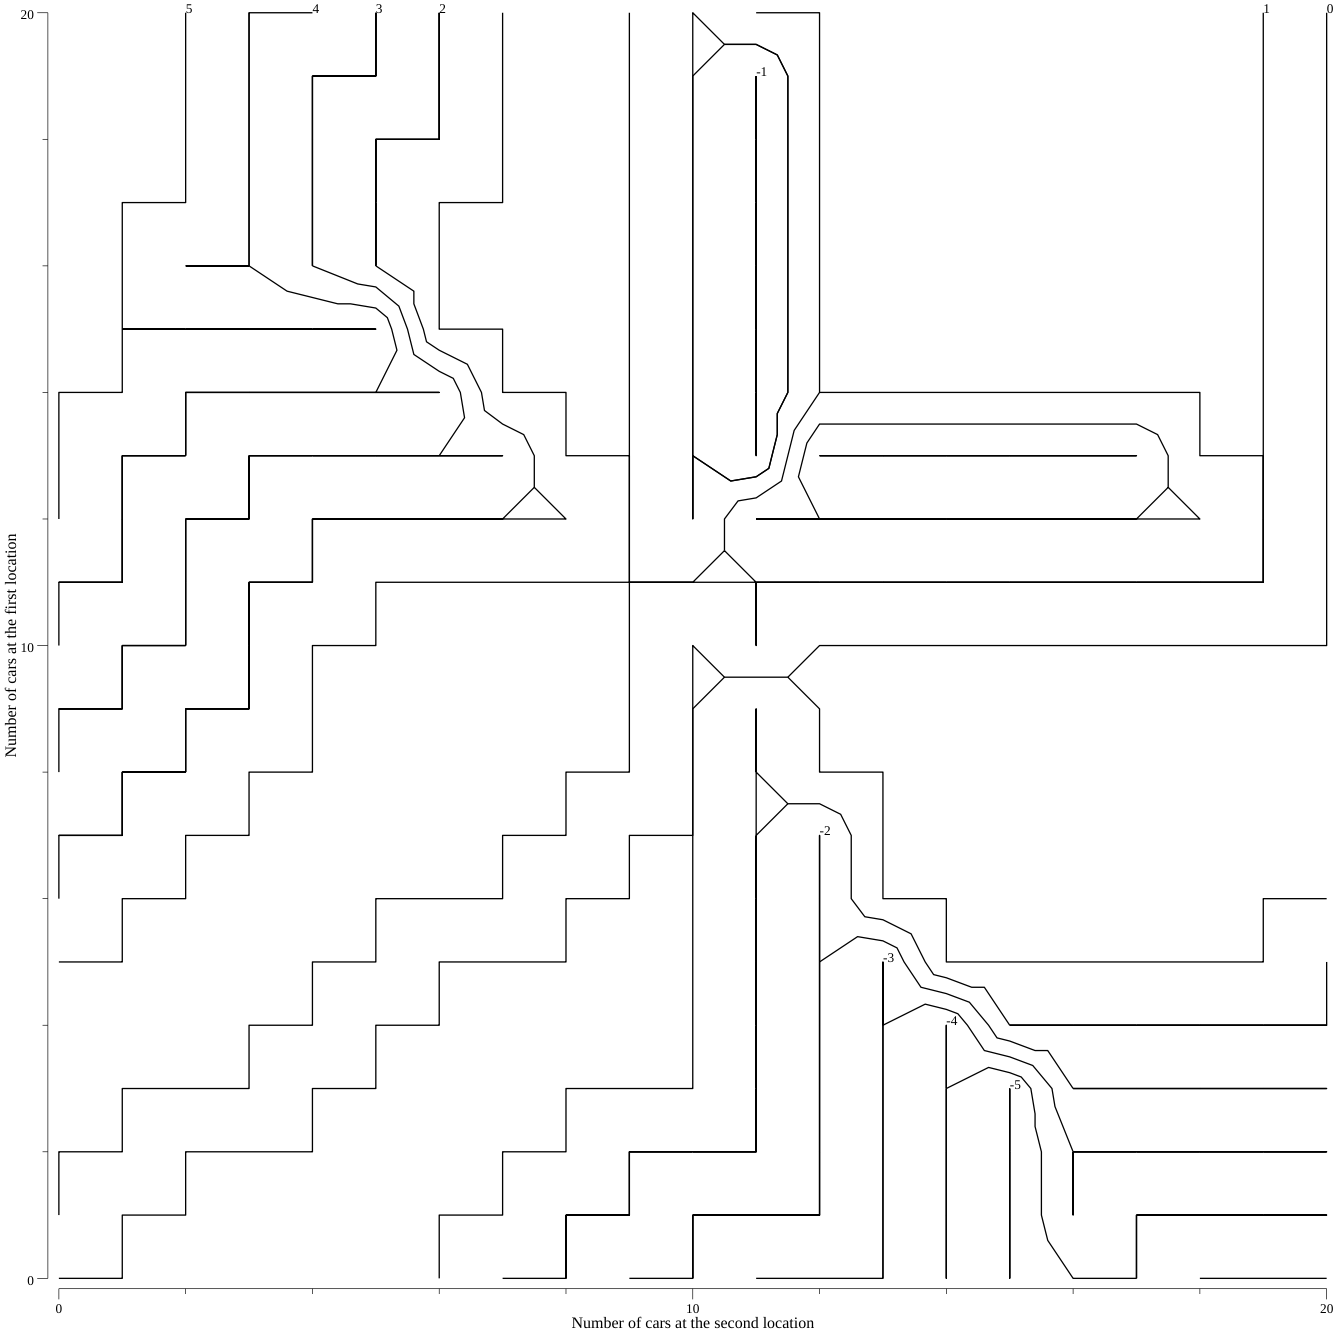
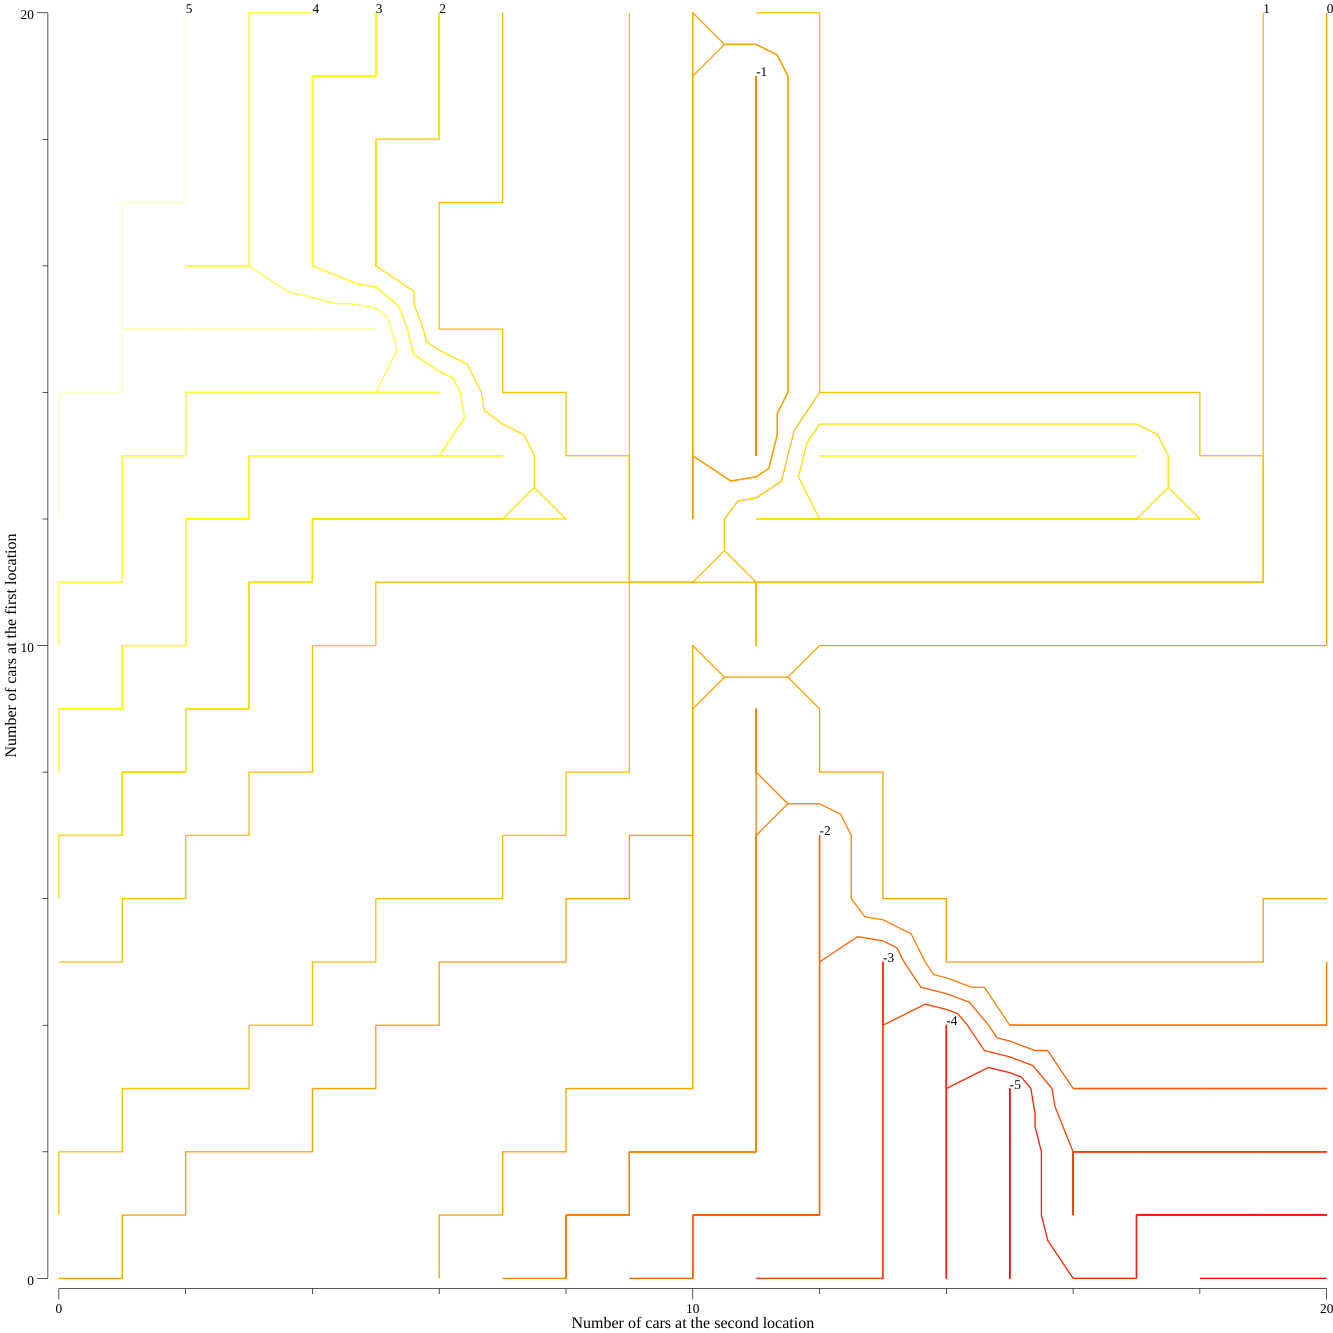
Add color to contourmap.

diff --git a/4.7/main.go b/4.7/main.go
@@ -4,6 +4,7 @@ import (
 	"fmt"
 	"gonum.org/v1/gonum/stat/distuv"
 	"gonum.org/v1/plot"
+	"gonum.org/v1/plot/palette"
 	"gonum.org/v1/plot/plotter"
 	"math"
 	"strconv"
@@ -207,7 +208,8 @@ func makePlot(states []State, pi []int) {
 	for i := -5.0; i < 6; i++ {
 		labels = append(labels, i)
 	}
-	contour := plotter.NewContour(plottable, labels, nil)
+	pal := palette.Heat(11, 1)
+	contour := plotter.NewContour(plottable, labels, pal)
 	pl.Add(contour)
 	labelsMap := make(map[int]plotter.XY, 11)
 	for i, state := range states {

diff --git a/4.tex b/4.tex
@@ -131,9 +131,10 @@
 
     The code can be found \href{https://github.com/hannagabor/SBRL/blob/master/4.7/main.go}{here}.
     The $x$ axis shows the number of cars at the second location, while the $y$ axis corresponds
-    to the number of cars at the first location.
+    to the number of cars at the first location. I used two representations.
     \begin{center}
       \includegraphics{printed_pi}
+      \includegraphics[scale=0.3]{pi}
     \end{center}
 
 \end{enumerate}
